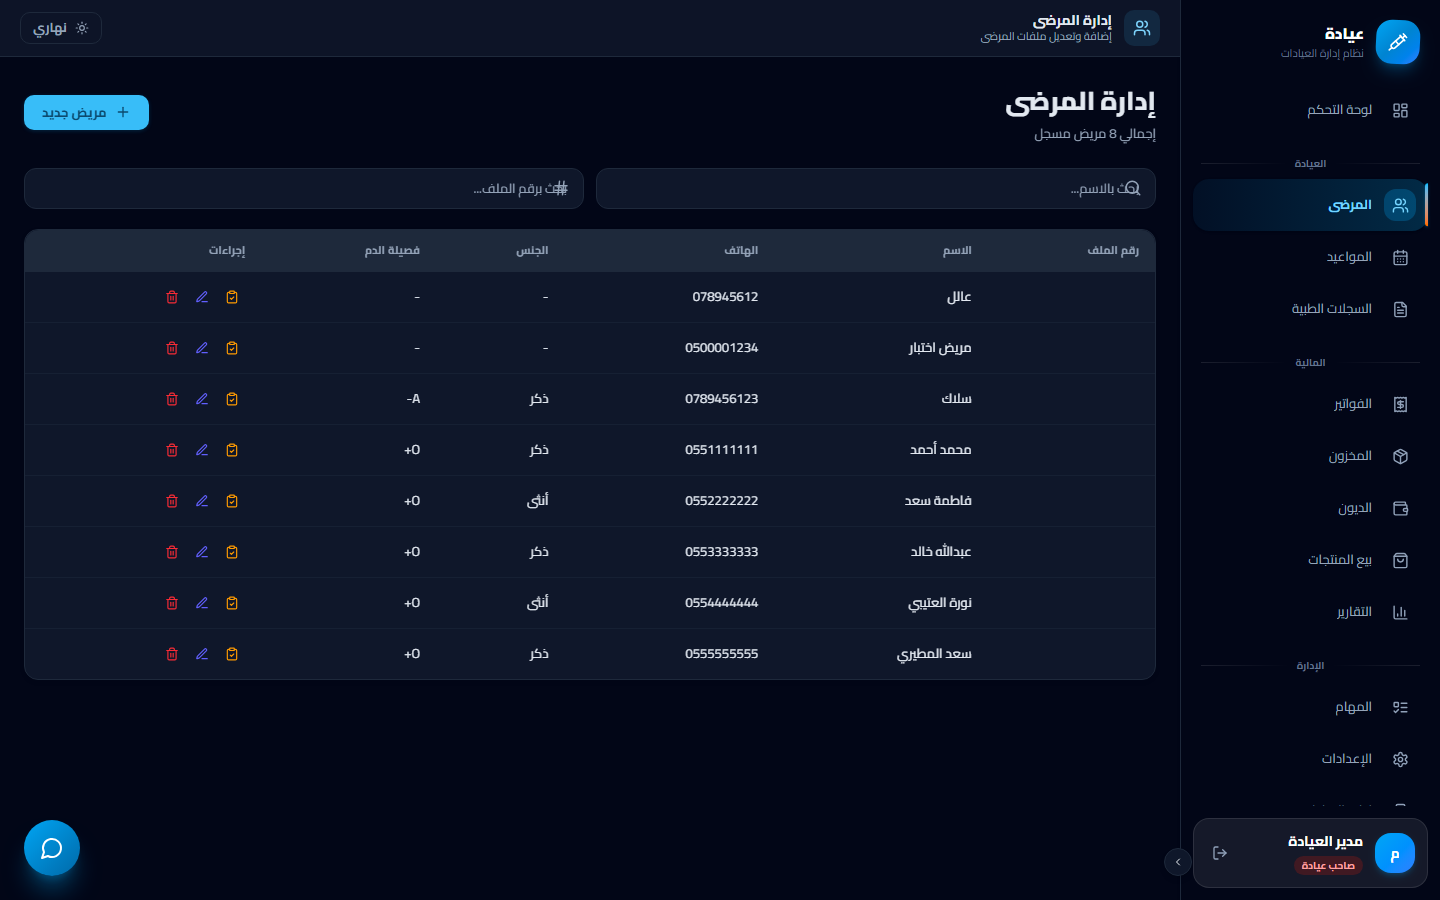
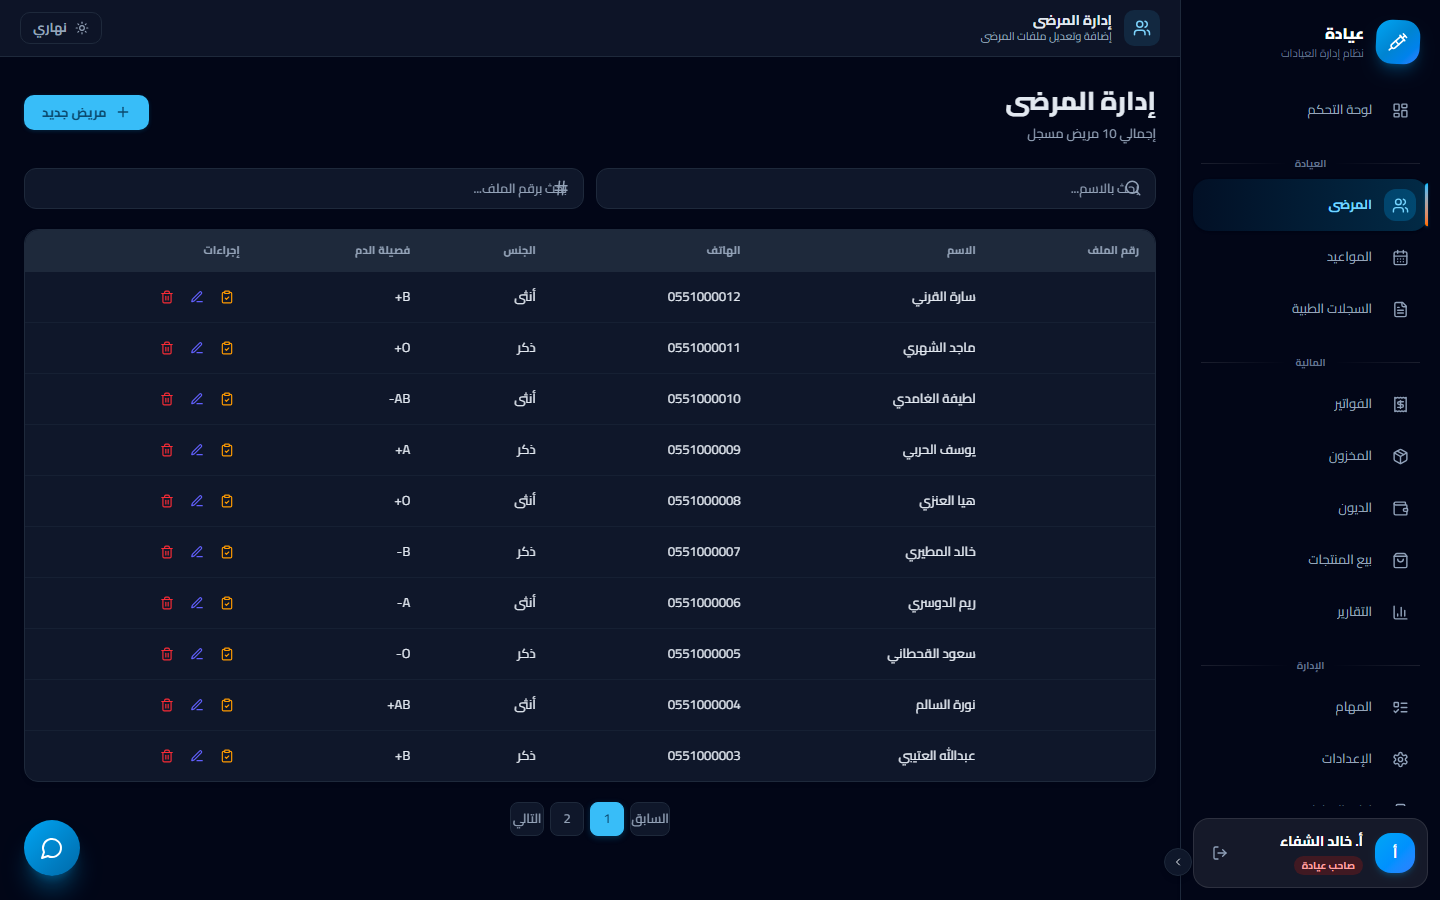
docs: screenshots from a new clinic (active subscription, seeded data)

diff --git a/docs/SCREENS.md b/docs/SCREENS.md
@@ -1,6 +1,6 @@
 # 📸 شاشات النظام — عيادة
 
-جولة مصوّرة في كل شاشات نظام إدارة العيادات. لقطات لوحة التحكم مأخوذة من حساب **مدير عيادة (صاحب عيادة)** على «عيادة النور للأسنان» مع **بيانات حقيقية واشتراك فعّال** — وليس من حساب مالك الموقع، وذلك لعرض الواجهة كما يراها فعلاً صاحب العيادة على عرض 1440×900.
+جولة مصوّرة في كل شاشات نظام إدارة العيادات. لقطات لوحة التحكم مأخوذة من حساب **مدير عيادة (صاحب عيادة)** على «عيادة الشفاء الطبية» — عيادة جديدة لها **اشتراك فعّال** وبيانات مُدخلة (مرضى، مواعيد، فواتير، سجلات، مهام، مخزون) — وليس من حساب مالك الموقع، وذلك لعرض الواجهة كما يراها فعلاً صاحب العيادة على عرض 1440×900.
 
 - **الواجهة العامة**: صفحة تعريفية + تسجيل الدخول + صفحة الحجز للمريض.
 - **لوحة تحكم مدير العيادة**: 14 شاشة موزّعة على مجموعات (الرئيسية، العيادة، المالية، الإدارة).
@@ -23,7 +23,7 @@
 
 نافذة الدخول التي تفتح من زر «تسجيل الدخول». يدخل المستخدم باسم المستخدم وكلمة المرور، ويدعم النظام أيضاً رمز التحقق بخطوتين (2FA) لمن فعّله.
 
-### 3) صفحة الحجز العامة للمريض — `/booking/al-noor-clinic`
+### 3) صفحة الحجز العامة للمريض — `/booking/al-shifa-clinic`
 
 ![صفحة الحجز](./screenshots/03-booking.png)
 

diff --git a/README.md b/README.md
@@ -8,7 +8,7 @@
 
 ## 🖼 لقطات الشاشات
 
-> كل لقطات لوحة التحكم مأخوذة من حساب **مدير عيادة (صاحب عيادة)** على «عيادة النور للأسنان» مع بيانات حقيقية واشتراك فعّال — وليس من حساب مالك الموقع.
+> كل لقطات لوحة التحكم مأخوذة من حساب **مدير عيادة (صاحب عيادة)** على «عيادة الشفاء الطبية» — وهي عيادة جديدة لها **اشتراك فعّال** وبيانات مُدخلة (مرضى، مواعيد، فواتير، سجلات، مهام، مخزون) — وليس من حساب مالك الموقع.
 
 ### 🌐 الواجهة العامة
 
@@ -84,7 +84,7 @@ node server.js
 
 ## 🌐 صفحة الحجز
 
-مثال: <http://127.0.0.1:3000/booking/al-noor-clinic>
+مثال: <http://127.0.0.1:3000/booking/al-shifa-clinic>
 
 ## 📂 البنية
 
